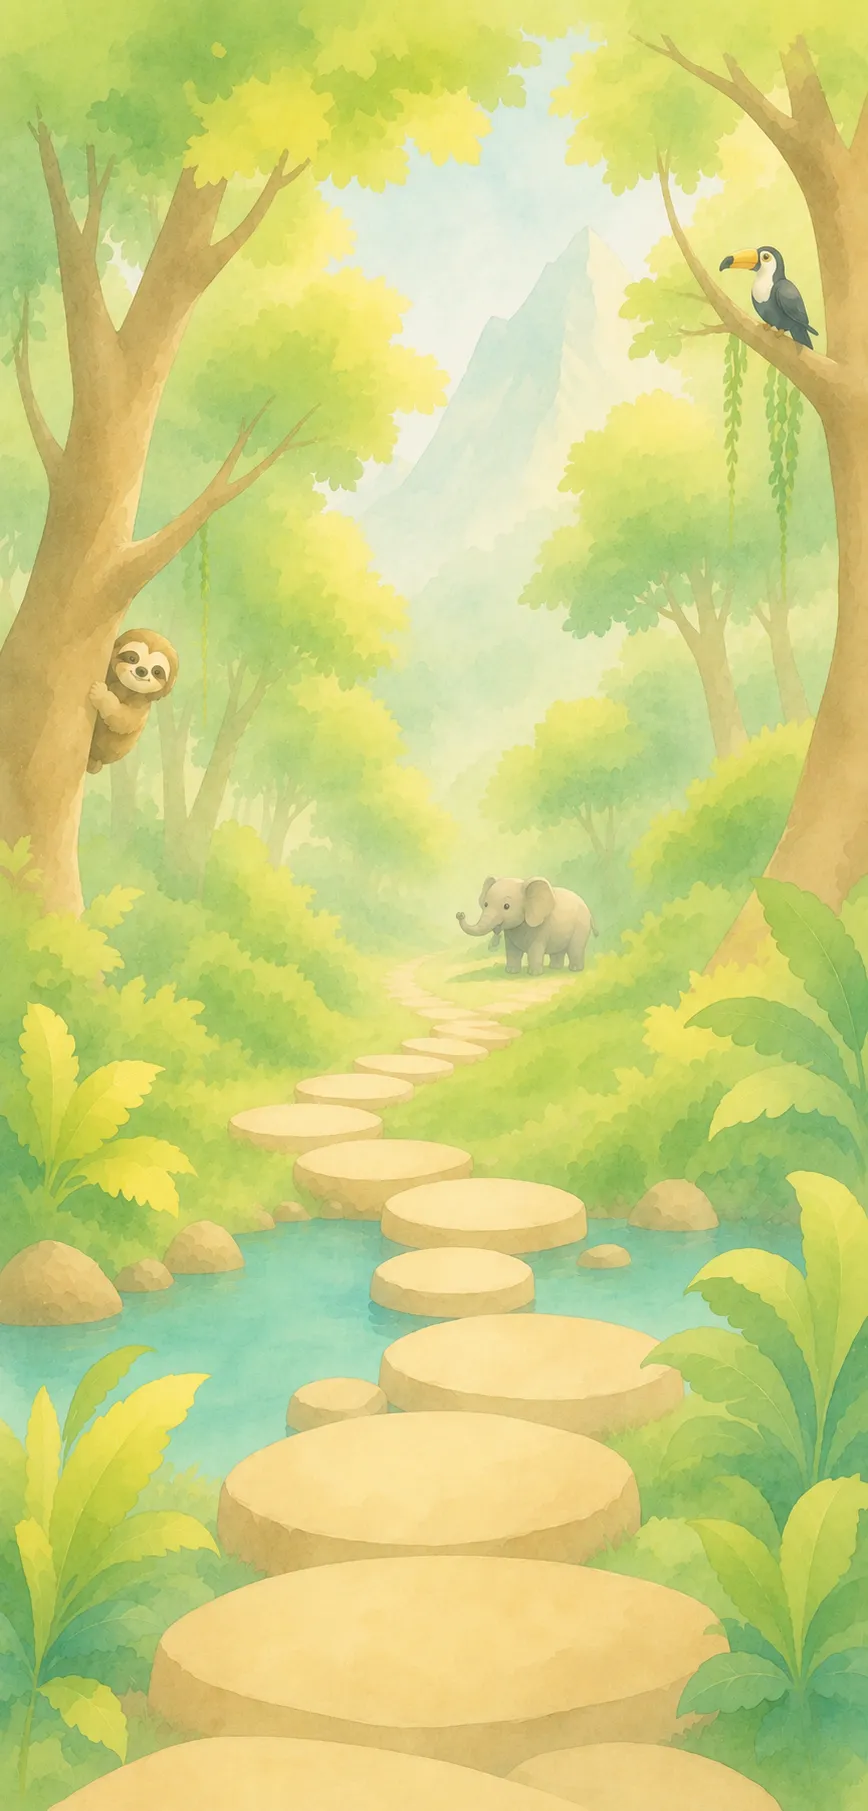
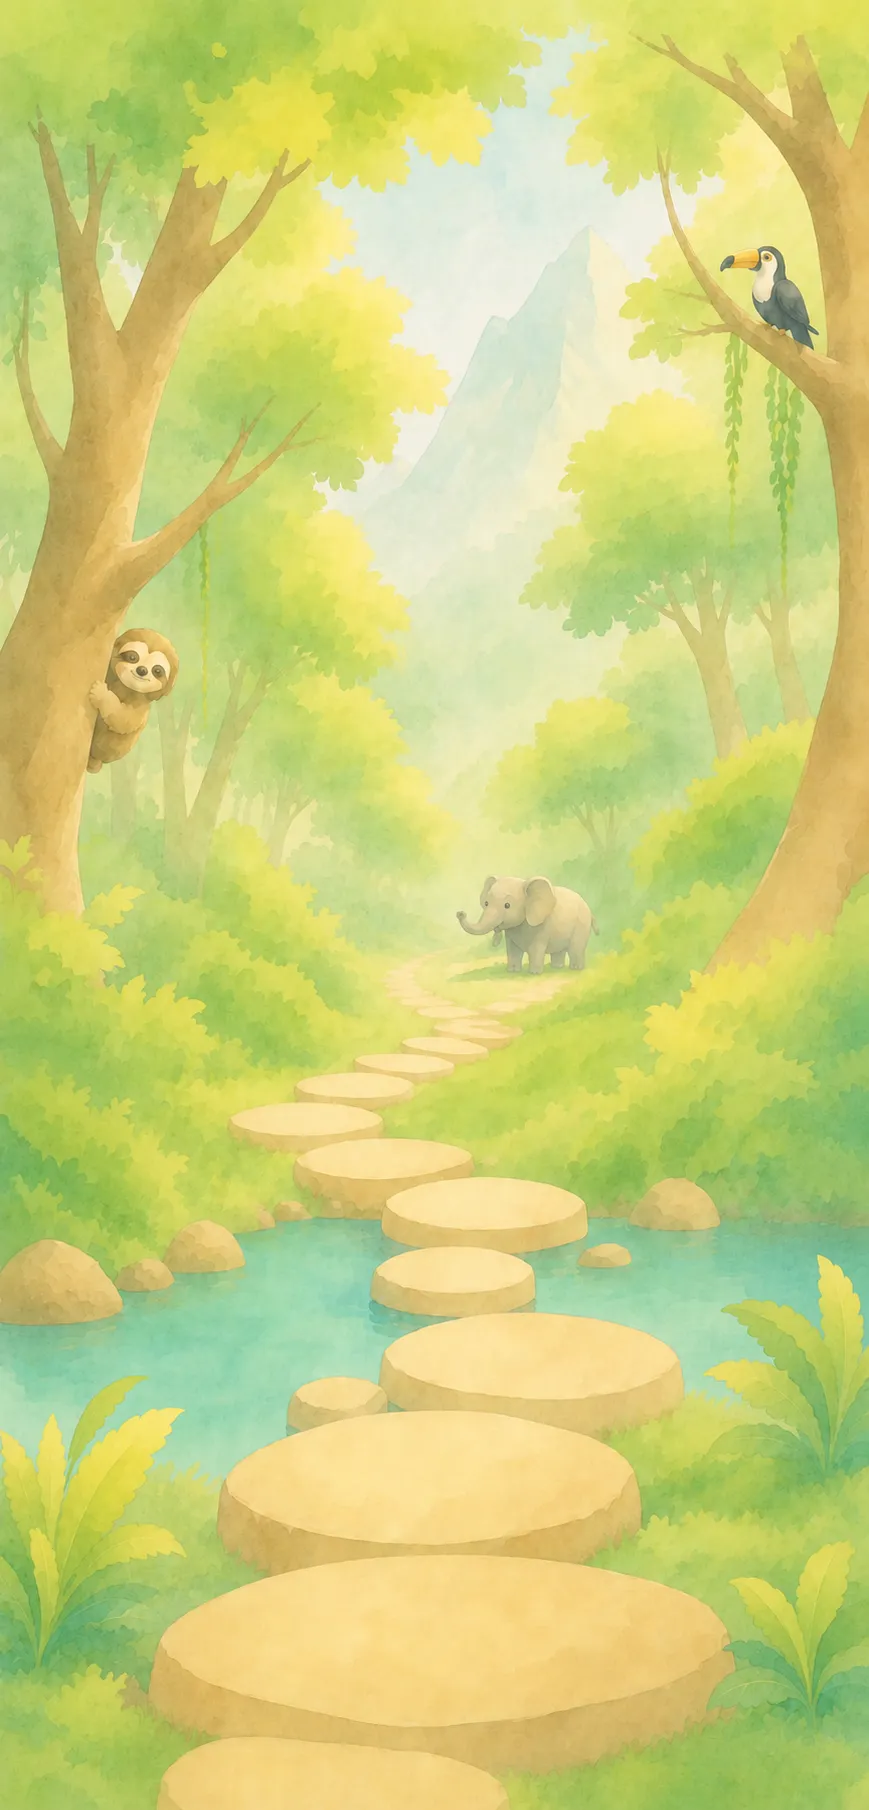
art: '정글 원정대' 배경 원화 v4 교체 (한 톤 따뜻해진 판)
v3과 구도·소품은 그대로다 — 개울 건너는 큰 징검다리 위에 아이가 서고,
길 끝에 코끼리, 왼쪽 나무에 나무늘보, 오른쪽 가지에 큰부리새, 멀리 산.
전체가 노란빛 쪽으로 한 톤 따뜻해지고, 징검다리가 커졌으며 멀리 산이
또렷해졌다.

deco(🐒 🌺 🐍) · tint(연한 초록 0.10) · darkStage(끔)는 그대로 —
그림에 원숭이·뱀·꽃이 없고, 위쪽이 밝은 연둣빛이라 크림색 문구가 안 읽힌다.

869×1810 = 1:2.083 으로 무대 칸(1:2.09)과 사실상 같아 잘리는 데가 없다.
규칙 6에 따라 v3 원본과 README 행은 삭제.
배포본 q80(74KB), art-src q92(181KB).

Claude-Session: https://claude.ai/code/session_018maNuYqDfFyRSe9uKpZhPR

Changed region(s): [[0.5599, 0.4641, 1.0, 1.0], [0.0, 0.7425, 0.2488, 1.0], [0.0, 0.5569, 0.2177, 0.6807]]

diff --git a/art-src/README.md b/art-src/README.md
@@ -231,4 +231,4 @@ getBoundingClientRect로 재서 정한다. 2026-08-05 점검에서 이 기준을
 | bg-deepsea-v8-src.webp | 꾸미기 배경 '깊은 바다' 원화 v8 (869×1810 = 1:2.083 — 무대 칸 1:2.09 와 사실상 같아 잘리는 데가 없다). v7과 구도는 같다(바위 협곡 사이 넓은 모랫길 · 위쪽 고래 실루엣 · 가운데 바다거북 · 좌우 산호·해초 · 수면 빛줄기) — 생물이 늘었다. 주황·은색 물고기가 앞쪽에 여럿 그려지고 왼쪽 아래에 해마가 들어왔으며, 대신 v7에 있던 조개가 빠졌다. deco 는 🫧 🐙 ✨ 🫧 🐚 — 물고기가 이제 그림에 또렷하게 여럿 있어 🐠 를 뺐고(v7 은 멀리 실루엣뿐이었다), 그림에서 빠진 조개를 🐚 로 대신 채웠다. 🐬 는 고래가 그려져 있어 계속 뺀 상태. tint 0.10 · darkStage 끔 — v6부터 같은 설정이다(위쪽이 흰 빛줄기라 크림색 문구가 안 읽힌다). 받은 그대로 톤 보정 없음. art-src 는 q92(206KB), 배포본은 q80(76KB) | stage-bg-deepsea.webp |
 | bg-dino-v3-src.webp | 꾸미기 배경 '공룡 섬' 원화 v3 (865×1819 = 1:2.10 — 무대 칸 1:2.09 와 거의 같다). v2와 구도·소품은 그대로고 하늘만 달라진 판 — 왼쪽 위에 큰 뭉게구름이 들어오고 오른쪽에도 구름이 더해져 하늘이 덜 비어 보인다. 초원도 살짝 진해졌다. 구도가 같아 deco·tint·darkStage 는 v2 설정 그대로 둔다. 받은 그대로 톤 보정 없음. art-src 는 q92(197KB), 배포본은 q80(78KB) | stage-bg-dino.webp |
 | bg-space-v3-src.webp | 꾸미기 배경 '우주 탐사' 원화 v3 (868×1812 = 1:2.088 — 무대 칸 1:2.09 와 사실상 같아 잘리는 데가 없다). v2와 구도는 같다(아래 지구의 둥근 지평선이 아이가 서는 바닥, 오른쪽 위 보름달, 왼쪽 토성, 가운데를 가로지르는 로켓) — 색이 맑아지고 은하수 띠가 또렷해졌으며 잔별 노이즈가 줄었다. 그림이 장식 이모지로 넣던 것을 거의 다 이미 그려서(🚀 🪐 🌎 🌙 ⭐ 🌌) deco 는 그림에 없는 셋만 둔다: ☄ 🛸 🌠. tint 0.12 · darkStage 유지(밤하늘이라 응원문구는 크림색). v2 는 입자가 거칠어 배포본을 q74 로 낮췄지만, v3 은 결이 매끈해 q80 에서도 115KB 라 집 기준인 q80 으로 돌아왔다. 받은 그대로 톤 보정 없음. art-src 는 q92(297KB), 배포본은 q80(115KB) | stage-bg-space.webp |
-| bg-jungle-v3-src.webp | 꾸미기 배경 '정글 원정대' 원화 v3 (868×1811 = 1:2.087 — 무대 칸 1:2.09 와 사실상 같아 잘리는 데가 없다). v2와 구도·소품은 그대로다(아래쪽 개울을 건너는 큰 징검다리 위에 아이가 서고, 길 끝에 코끼리, 왼쪽 나무에 나무늘보, 오른쪽 가지에 큰부리새, 멀리 산) — 안개가 걷히고 잎·나무 결이 또렷해졌으며 초록이 노란빛 쪽으로 밝아졌다. 그림이 장식으로 넣던 것을 대부분 그려서(🌴 🍃 🌿 🦜) deco 는 그림에 없는 셋만 둔다: 🐒 🐍 🌺. tint 연한 초록 0.10 · darkStage 끔 — v1부터 같은 설정이다(위쪽이 밝은 연둣빛이라 크림색 문구가 안 읽힌다). 받은 그대로 톤 보정 없음. art-src 는 q92(187KB), 배포본은 q80(80KB) | stage-bg-jungle.webp |
+| bg-jungle-v4-src.webp | 꾸미기 배경 '정글 원정대' 원화 v4 (869×1810 = 1:2.083 — 무대 칸 1:2.09 와 사실상 같아 잘리는 데가 없다). v3과 구도·소품은 그대로다(개울 건너는 큰 징검다리 위에 아이가 서고, 길 끝에 코끼리, 왼쪽 나무에 나무늘보, 오른쪽 가지에 큰부리새, 멀리 산) — 전체가 노란빛 쪽으로 한 톤 따뜻해지고 징검다리가 커졌으며 멀리 산이 또렷해졌다. deco 🐒 🐍 🌺 · tint 연한 초록 0.10 · darkStage 끔 — v1부터 같은 설정이다(그림에 원숭이·뱀·꽃이 없고, 위쪽이 밝은 연둣빛이라 크림색 문구가 안 읽힌다). 받은 그대로 톤 보정 없음. art-src 는 q92(181KB), 배포본은 q80(74KB) | stage-bg-jungle.webp |
